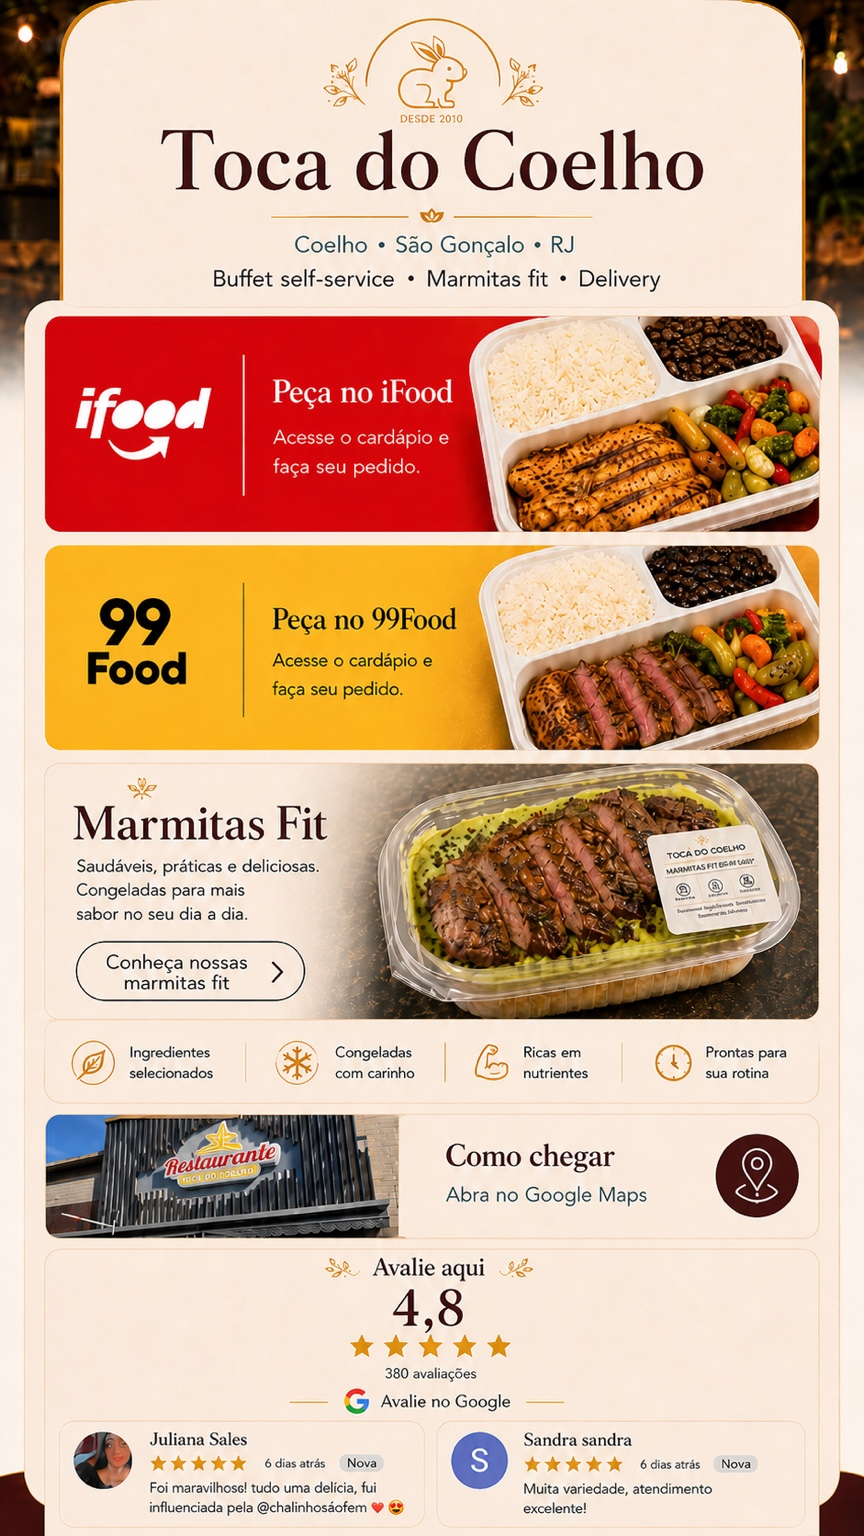
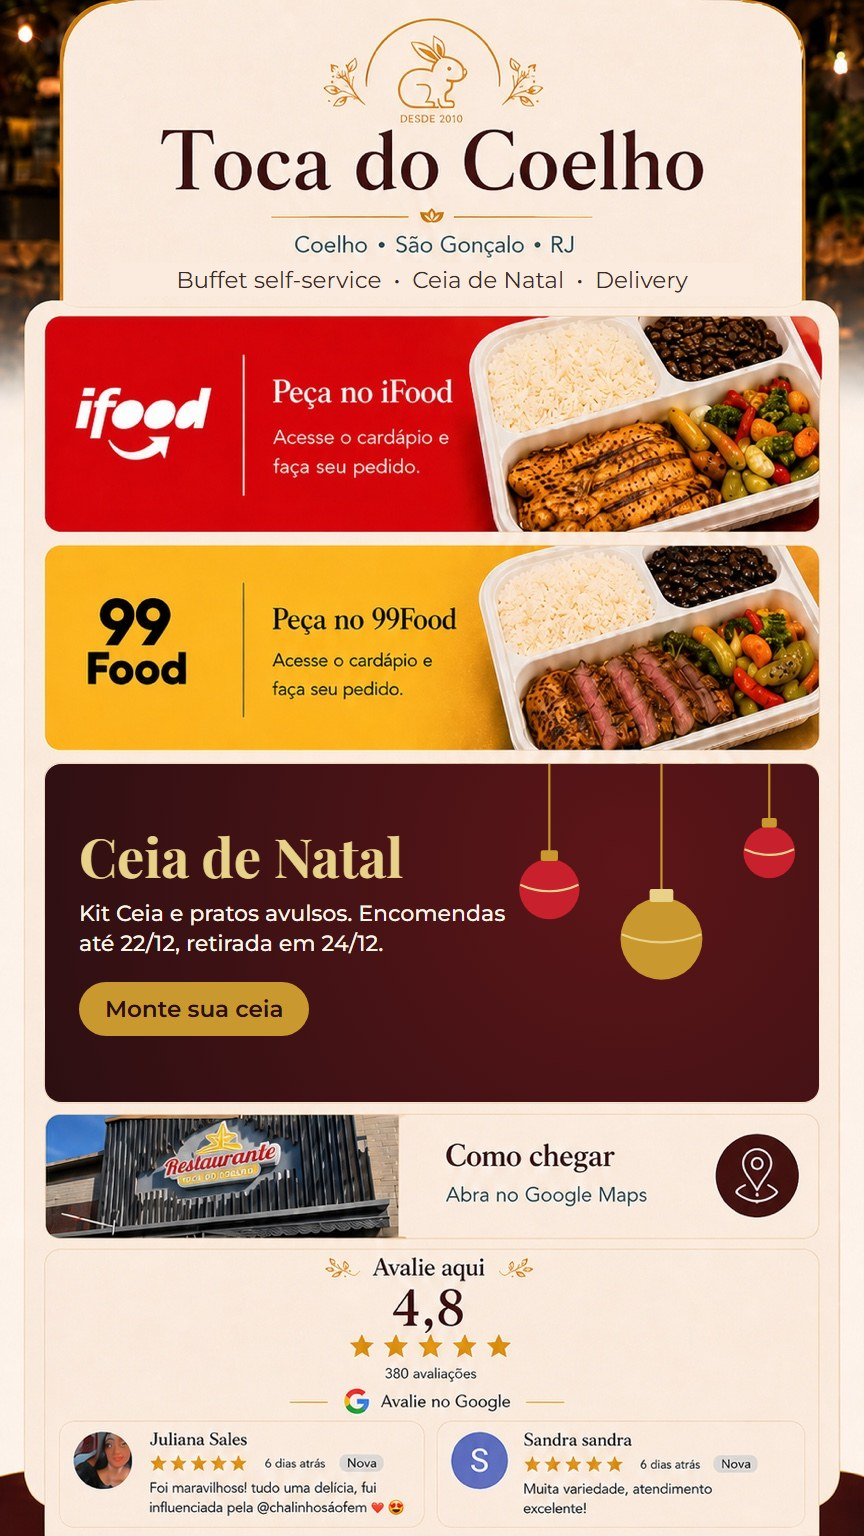
feat: troca a marmita fit pela Ceia de Natal

Changed region(s): [[0.0312, 0.5, 0.9688, 0.7188], [0.2188, 0.1562, 0.7812, 0.1875]]

diff --git a/index.html b/index.html
@@ -4,11 +4,11 @@
   <meta charset="utf-8" />
   <meta name="viewport" content="width=device-width, initial-scale=1" />
   <title>Toca do Coelho | Links</title>
-  <meta name="description" content="Peça no iFood, 99Food, conheça nossas marmitas fit, veja como chegar e avalie a Toca do Coelho no Google." />
+  <meta name="description" content="Peça no iFood, 99Food, monte sua Ceia de Natal, veja como chegar e avalie a Toca do Coelho no Google." />
   <meta name="theme-color" content="#4b0f14" />
 
   <meta property="og:title" content="Toca do Coelho | Links" />
-  <meta property="og:description" content="Pedidos, marmitas fit, localização e avaliações." />
+  <meta property="og:description" content="Pedidos, Ceia de Natal, localização e avaliações." />
   <meta property="og:image" content="toca-do-coelho-link-bio.jpg" />
   <meta property="og:type" content="website" />
 
@@ -112,7 +112,7 @@
       height: 13.9%;
     }
 
-    .link-marmitas {
+    .link-ceia {
       left: 3.4%;
       top: 50.3%;
       width: 93.0%;
@@ -269,13 +269,13 @@
 <body>
   <main class="page" aria-label="Links do Restaurante Toca do Coelho">
     <section class="mockup">
-      <img src="toca-do-coelho-link-bio.jpg" alt="Página de links do Restaurante Toca do Coelho com cards para iFood, 99Food, Marmitas Fit, Google Maps e avaliações." />
+      <img src="toca-do-coelho-link-bio.jpg" alt="Página de links do Restaurante Toca do Coelho com cards para iFood, 99Food, Ceia de Natal, Google Maps e avaliações." />
 
       <a class="hotspot link-ifood" href="https://www.ifood.com.br/delivery/sao-goncalo-rj/restaurante-toca-do-coelho-coelho/7eb56d39-81ed-4cf2-a819-f783c159f23a" target="_blank" rel="noopener noreferrer" aria-label="Abrir cardápio no iFood"></a>
 
       <a class="hotspot link-99" href="https://oia.99app.com/dlp9/wkAlEX" target="_blank" rel="noopener noreferrer" aria-label="Abrir cardápio no 99Food"></a>
 
-      <a class="hotspot link-marmitas" href="https://restaurantetocadocoelhosg-web.github.io/marmitas/" target="_blank" rel="noopener noreferrer" aria-label="Conhecer nossas Marmitas Fit"></a>
+      <a class="hotspot link-ceia" href="https://restaurantetocadocoelhosg-web.github.io/ceia-natal/" target="_blank" rel="noopener noreferrer" aria-label="Montar minha Ceia de Natal"></a>
 
       <a class="hotspot link-maps" href="https://www.google.com/maps/search/?api=1&query=Restaurante%20Toca%20do%20Coelho&query_place_id=ChIJy973t4uRmQARQXr3mZFOpjg" target="_blank" rel="noopener noreferrer" aria-label="Abrir endereço no Google Maps"></a>
 
